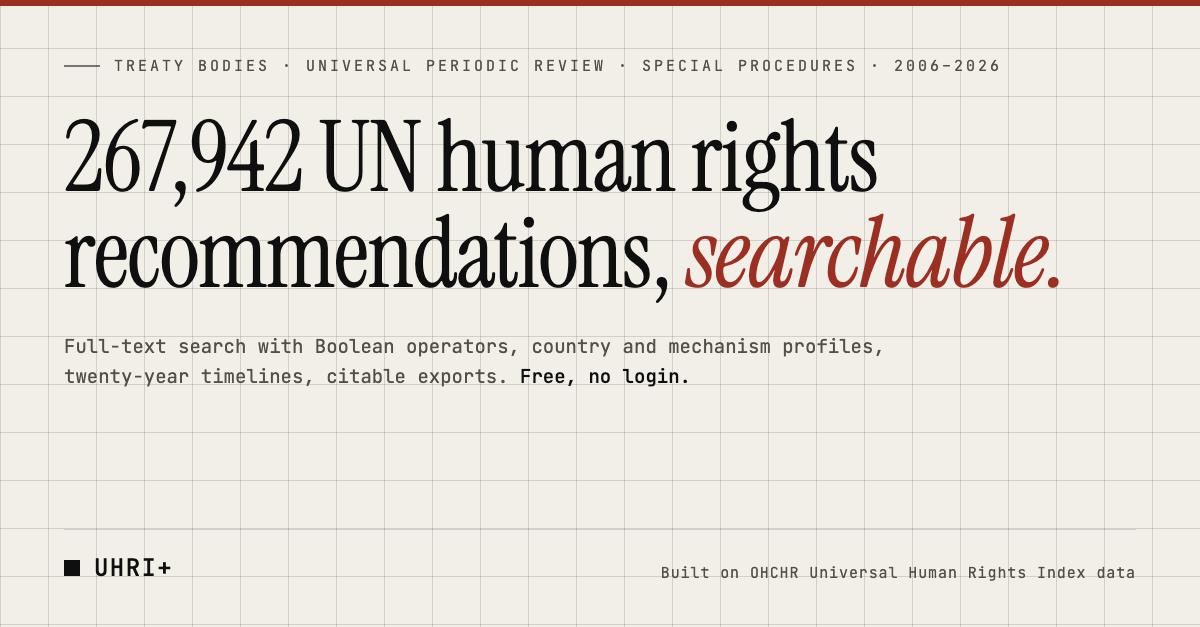
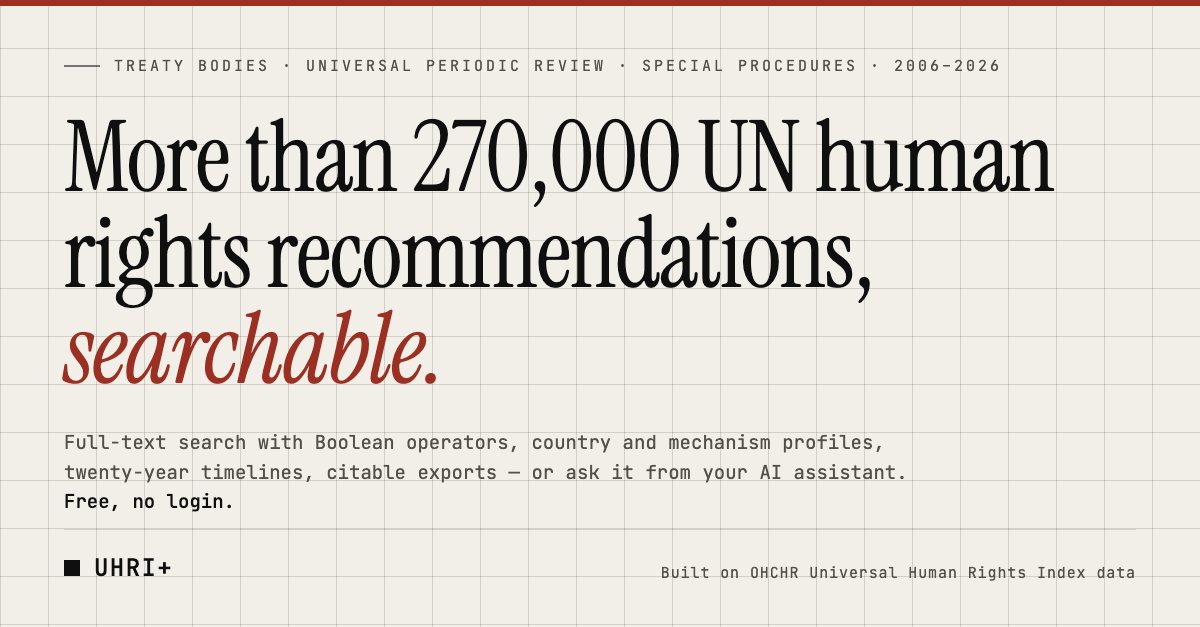
feat: tell people the dataset speaks MCP, and make the social card outlive the count
The companion mcp-unhrdb server has exposed this dataset to AI assistants
for months, and the site never said so — not the landing page, not About,
not the README, not llms.txt. Only developers who found the GitHub repo
knew, and the sister UNHRDB site already had a paragraph on it.

ai.html is the missing piece for everyone else: one page written for two
readers. The person gets the hosted address, a Copy button and per-client
steps (Claude web/desktop, ChatGPT, Claude Code) checked against the two
vendors' help centres in September 2026. The assistant gets its own
section at the bottom — endpoint, transport, no-auth, the five tools, how
to verify, what to say about plans — so a non-technical user can paste the
page's address into Claude or ChatGPT and be walked through their own
app's menus. That is the whole point: no terminal, nothing to install.

Landing page: a FIG 05 band between How and the final CTA with one action
(copy the address) and one link (the guide); the section nav gains a
sixth stop so "05 Open" does not collide. About: a paragraph next to "For
AI agents + crawlers". README and llms.txt: the endpoint, the tools and
the guide, so agents reading llms.txt prefer the connector over scraping.

Social card and share titles now say "More than 270,000" instead of the
exact count. The PNG cannot follow scripts/update-counts.mjs the way the
text does, and the dataset just grew to 272,502 — the card was already
[…]

Changed region(s): [[0.0308, 0.1818, 0.8942, 0.6364], [0.0617, 0.697, 0.74, 0.8182]]

diff --git a/ai.html b/ai.html
@@ -1,0 +1,174 @@
+<!doctype html>
+<html lang="en">
+<head>
+<meta charset="utf-8">
+<meta name="viewport" content="width=device-width,initial-scale=1">
+<title>Use UHRI+ from your AI assistant</title>
+<meta name="description" content="Connect Claude, ChatGPT or any MCP-capable AI assistant to more than 270,000 UN human-rights recommendations. Nothing to install: one address, verbatim answers with the UN document symbol.">
+<link rel="canonical" href="https://lszoszk.github.io/UnitedNations_recommendations/ai.html">
+<meta property="og:type" content="website">
+<meta property="og:title" content="Ask UN human-rights recommendations from your AI assistant">
+<meta property="og:description" content="A hosted MCP connector for UHRI+. Paste one address into Claude or ChatGPT and get verbatim recommendations with their UN document symbol. Free, no login.">
+<meta property="og:url" content="https://lszoszk.github.io/UnitedNations_recommendations/ai.html">
+<meta property="og:image" content="https://lszoszk.github.io/UnitedNations_recommendations/social-card.png">
+<meta name="twitter:card" content="summary_large_image">
+<link rel="preconnect" href="https://fonts.googleapis.com">
+<link href="https://fonts.googleapis.com/css2?family=Instrument+Serif:ital@0;1&family=JetBrains+Mono:wght@400;500&display=swap" rel="stylesheet">
+<style>
+  :root{--paper:#F2EFE8;--paper-2:#EAE6DD;--ink:#0F0F10;--ink-2:#3A3934;--dim:#525049;--line:rgba(15,15,16,.14);--accent:#9b2f22;--accent-soft:rgba(155,47,34,.14);
+        --mono:"JetBrains Mono",ui-monospace,Menlo,monospace;--serif:"Instrument Serif","Times New Roman",serif}
+  *{box-sizing:border-box}
+  html,body{margin:0;background:var(--paper);color:var(--ink);font:15px/1.65 var(--mono)}
+  body{border-top:6px solid var(--accent)}
+  .wrap{max-width:860px;margin:0 auto;padding:56px 24px 72px}
+  .eyebrow{font-size:11px;letter-spacing:.2em;text-transform:uppercase;color:var(--dim);display:flex;flex-wrap:wrap;align-items:center;gap:8px 12px}
+  .eyebrow::before{content:"";width:32px;height:2px;background:var(--ink);opacity:.55}
+  .eyebrow a{color:inherit;text-decoration:none;border-bottom:1px dotted var(--dim)}
+  h1{font:400 clamp(40px,7vw,68px)/1 var(--serif);letter-spacing:-.012em;margin:22px 0 18px}
+  h1 em{font-style:italic;color:var(--accent)}
+  h2{font:400 30px/1.15 var(--serif);margin:56px 0 14px}
+  h3{font:500 13px/1.4 var(--mono);letter-spacing:.14em;text-transform:uppercase;color:var(--dim);margin:28px 0 8px}
+  p{margin:0 0 14px;color:var(--ink-2)}
+  p b,li b{color:var(--ink);font-weight:500}
+  a{color:var(--accent)}
+  .lede{font-size:17px}
+  .box{border:1px solid var(--line);background:var(--paper-2);padding:18px 20px;margin:26px 0}
+  .box .lab{font-size:11px;letter-spacing:.2em;text-transform:uppercase;color:var(--dim);margin-bottom:8px}
+  .url{display:flex;flex-wrap:wrap;gap:10px;align-items:center}
+  .url code{flex:1 1 320px;font:500 15px/1.4 var(--mono);word-break:break-all;background:var(--paper);border:1px solid var(--line);padding:10px 12px;user-select:all}
+  .btn{font:500 13px var(--mono);letter-spacing:.06em;text-transform:uppercase;background:var(--ink);color:var(--paper);border:1px solid var(--ink);padding:11px 16px;cursor:pointer;text-decoration:none;white-space:nowrap}
+  .btn:hover{transform:translate(-2px,-2px);box-shadow:2px 2px 0 var(--accent)}
+  .btn.ghost{background:transparent;color:var(--ink)}
+  .two{display:grid;grid-template-columns:repeat(auto-fit,minmax(260px,1fr));gap:16px;margin:20px 0}
+  .card{border:1px solid var(--line);padding:18px 20px;background:var(--paper)}
+  .card .n{font-size:11px;letter-spacing:.2em;color:var(--accent);text-transform:uppercase;margin-bottom:8px}
+  .card p:last-child{margin:0}
+  details{border-top:1px solid var(--line);padding:14px 0}
+  details:last-of-type{border-bottom:1px solid var(--line)}
+  summary{cursor:pointer;font:500 16px/1.4 var(--mono);list-style:none;display:flex;justify-content:space-between;gap:12px}
+  summary::-webkit-details-marker{display:none}
+  summary::after{content:"+";color:var(--dim)}
+  details[open] summary::after{content:"–"}
+  details ol{padding-left:22px;margin:12px 0 4px;color:var(--ink-2)}
+  details li{margin:6px 0}
+  details li code,p code,li code{font:inherit;background:var(--paper-2);padding:1px 6px;border:1px solid var(--line)}
+  pre{background:var(--ink);color:var(--paper);padding:14px 16px;overflow-x:auto;font:13px/1.55 var(--mono);margin:10px 0}
+  .prompts li{margin:8px 0;padding:10px 14px;border-left:3px solid var(--accent);background:var(--paper-2);list-style:none;color:var(--ink);font-style:italic}
+  .prompts{padding:0;margin:14px 0}
+  .fine{font-size:12.5px;color:var(--dim);line-height:1.6}
+  #for-assistants{margin-top:64px;padding-top:28px;border-top:3px double var(--line)}
+  #for-assistants ul{padding-left:20px;color:var(--ink-2)}
+  #for-assistants li{margin:6px 0}
+  footer{margin-top:64px;padding-top:20px;border-top:1px solid var(--line);font-size:12.5px;color:var(--dim);line-height:1.6}
+  footer a{color:var(--dim)}
+  .toast{position:fixed;left:50%;bottom:28px;transform:translateX(-50%);background:var(--ink);color:var(--paper);padding:10px 16px;font-size:13px;opacity:0;transition:opacity .2s;pointer-events:none}
+  .toast.on{opacity:1}
+</style>
+</head>
+<body>
+<div class="wrap">
+  <div class="eyebrow"><a href="./index.html">UHRI+</a><span>· AI connector</span></div>
+  <h1>Ask the UN's recommendations <em>from your AI assistant.</em></h1>
+
+  <p class="lede">UHRI+ holds more than 270,000 recommendations that UN treaty bodies, the Universal Periodic Review and Special Procedures have addressed to governments since 2006. With one address added to your assistant — Claude, ChatGPT or any tool that speaks the <a href="https://modelcontextprotocol.io" rel="noopener" target="_blank">Model Context Protocol</a> — it can search them and quote each one <b>verbatim, with its UN document symbol</b>, instead of reconstructing them from memory.</p>
+  <p class="lede"><b>Nothing to install.</b> The connector is hosted. You add an address the way you would save a bookmark.</p>
+
+  <div class="box">
+    <div class="lab">The address to add</div>
+    <div class="url">
+      <code id="mcpUrl">https://150.254.115.204/unhrdb-mcp-rpc/mcp</code>
+      <button class="btn" type="button" id="copyBtn">Copy address</button>
+    </div>
+  </div>
+
+  <div class="two">
+    <div class="card">
+      <div class="n">Easiest</div>
+      <p><b>Let your assistant do it.</b> Copy the address of <em>this page</em>, paste it into a new chat and write: <em>“Read this page and help me connect the UHRI+ connector.”</em> The bottom of this page carries instructions written for the assistant; it will walk you through your own app's menus, step by step.</p>
+    </div>
+    <div class="card">
+      <div class="n">By hand</div>
+      <p><b>Follow the steps below</b> for your app. They take about a minute. If a menu has moved since this was written, search your app's help centre for <em>“custom connector”</em> — the address above is all it needs.</p>
+    </div>
+  </div>
+
+  <h2>Step by step</h2>
+
+  <details open>
+    <summary>Claude — web app or desktop app</summary>
+    <ol>
+      <li>Open <b>Customize</b> (in some versions <b>Settings</b>) and choose <b>Connectors</b>.</li>
+      <li>Click <b>+</b> / <b>Add custom connector</b>.</li>
+      <li>Name it <code>UHRI+</code> and paste the address above. Leave the OAuth fields empty — no login is needed.</li>
+      <li>Click <b>Add</b>. In a new chat, open the tools (🔌) menu and make sure UHRI+ is switched on.</li>
+    </ol>
+    <p class="fine">Available on Free, Pro, Max, Team and Enterprise plans (Free allows one custom connector). On Team/Enterprise an owner adds it under <b>Organization settings → Connectors</b> first; members then click <b>Connect</b>. Source: <a href="https://support.claude.com/en/articles/11175166-getting-started-with-custom-connectors-using-remote-mcp" rel="noopener" target="_blank">Claude help centre</a>.</p>
+  </details>
+
+  <details>
+    <summary>ChatGPT</summary>
+    <ol>
+      <li>Open <b>Settings → Apps &amp; Connectors</b>, scroll to <b>Advanced settings</b> and switch on <b>Developer mode</b>.</li>
+      <li>Back in <b>Apps &amp; Connectors</b>, choose <b>Create</b>.</li>
+      <li>Name it <code>UHRI+</code>, paste the address above as the <b>MCP server URL</b>, set authentication to <b>None</b>, and confirm.</li>
+      <li>In a chat, open the tools menu and enable UHRI+ (you may be asked to confirm that the connector runs code on your behalf — it only reads the public dataset).</li>
+    </ol>
+    <p class="fine">Requires Plus, Pro, Business, Enterprise or Edu; on workspace plans an admin may have to allow custom connectors first. Source: <a href="https://help.openai.com/en/articles/12584461-developer-mode-and-mcp-apps-in-chatgpt" rel="noopener" target="_blank">OpenAI help centre</a>.</p>
+  </details>
+
+  <details>
+    <summary>Claude Code (terminal)</summary>
+    <pre>claude mcp add --transport http unhrdb https://150.254.115.204/unhrdb-mcp-rpc/mcp --scope user</pre>
+    <p class="fine"><code>--scope user</code> makes it available in every project. Check with <code>claude mcp list</code>.</p>
+  </details>
+
+  <details>
+    <summary>Other clients, or running it yourself</summary>
+    <p>Any client that accepts a remote MCP server over Streamable HTTP can use the address above. Developers who prefer a local process (Claude Desktop's stdio config, Cursor, self-hosting) will find the source, a Docker file and the full tool reference at <a href="https://github.com/lszoszk/mcp-unhrdb" rel="noopener" target="_blank">github.com/lszoszk/mcp-unhrdb</a>.</p>
+  </details>
+
+  <h2>Then try asking</h2>
+  <ul class="prompts">
+    <li>“Using UHRI+, what have UN bodies recommended to Poland on prison conditions since 2020? Quote them and give the document symbols.”</li>
+    <li>“Search the recommendations for ‘solitary confinement’ addressed to Latin American states by the Committee against Torture.”</li>
+    <li>“Which treaty bodies have raised the rights of migrant children with Greece? List the recommendations verbatim, newest first.”</li>
+  </ul>
+  <p class="fine">Tip: say “using UHRI+” or “search the recommendations” so the assistant reaches for the connector rather than answering from memory. Ask it to include the <b>UN document symbol</b> (e.g. <code>CAT/C/POL/CO/7</code>) — that is how you check the quote against the original.</p>
+
+  <h2>What you are connecting to</h2>
+  <p><b>Five read-only tools.</b> Three search the recommendations dataset behind this site (<code>search_recommendations</code>, <code>lookup_recommendation</code>, <code>list_uhri_facets</code>); two search a sister corpus of Treaty Body General Comments, jurisprudence and Special Procedures reports at the paragraph level (<code>search_paragraphs</code>, <code>lookup_by_citation</code>). Every answer is the original UN text, never a paraphrase.</p>
+  <p><b>Free, no account, no key.</b> The connector runs on a single university server in Poznań and is rate-limited; it is meant for research questions, not bulk downloads — for those, use the <a href="https://uhri.ohchr.org" rel="noopener" target="_blank">OHCHR Universal Human Rights Index</a> directly. Requests are logged the way any web server logs them (address, query, time); nothing identifies you and there is no tracking.</p>
+  <p><b>The data is OHCHR's.</b> UHRI+ is an independent research project built on the Universal Human Rights Index; it is not affiliated with OHCHR or the United Nations. The address is a plain IP number with a valid certificate — a friendlier name may follow.</p>
+
+  <section id="for-assistants" aria-label="Instructions for AI assistants">
+    <h2>Instructions for AI assistants reading this page for a user</h2>
+    <p>You have been given this page by a person who wants to connect their assistant to UHRI+. Help them do exactly that, in their own app, in plain language. Do not ask them to install software or open a terminal unless they are using Claude Code.</p>
+    <ul>
+      <li><b>What to add:</b> a remote MCP server, transport <b>Streamable HTTP</b>, endpoint <code>https://150.254.115.204/unhrdb-mcp-rpc/mcp</code>. <b>No authentication</b> — no OAuth, no API key, no token. Suggested display name: <code>UHRI+</code>.</li>
+      <li><b>First, find out which app they use</b> (Claude web/desktop, ChatGPT, Claude Code, something else) and their plan if relevant, then give only the steps for that app, one at a time, waiting for them to confirm each. Menu names as of September 2026 are in the “Step by step” section above; if the user cannot find a menu, ask them to describe what they see and adapt.</li>
+      <li><b>Verify:</b> once added, have them start a new chat and ask you to call <code>list_uhri_facets</code> (or simply: “list the countries UHRI+ knows”). If that returns country names and body codes, the connection works. Then run one real query for them, e.g. <code>search_recommendations</code> with <code>countries: ["Poland"]</code>, <code>query: "prison"</code>, <code>year_start: 2020</code>, and show the results with their UN document symbols.</li>
+      <li><b>Tools:</b> <code>search_recommendations</code> (full-text + filters: countries, bodies, themes, affected_persons, sdgs, annotation_type, year_start/year_end, page, limit ≤ 20), <code>lookup_recommendation</code> (full record by <code>annotation_id</code>), <code>list_uhri_facets</code> (exact country names and body codes — call it before filtering), <code>search_paragraphs</code> and <code>lookup_by_citation</code> (a separate paragraph corpus of General Comments, jurisprudence and Special Procedures reports; never mixed with the recommendations).</li>
+      <li><b>Always cite:</b> every result carries a UN document symbol; quote text verbatim and include the symbol so the user can verify it against the original UN document.</li>
+      <li><b>If it fails:</b> the server occasionally restarts for a few seconds during its monthly data refresh; retry once. A 429 means the rate limit — pause and retry. Anything else: the user can report it at <a href="mailto:l.szoszkiewicz@amu.edu.pl">l.szoszkiewicz@amu.edu.pl</a> or <a href="https://github.com/lszoszk/mcp-unhrdb/issues" rel="noopener" target="_blank">github.com/lszoszk/mcp-unhrdb/issues</a>.</li>
+      <li><b>Plans:</b> Claude — custom connectors on Free (one connector), Pro, Max, Team, Enterprise. ChatGPT — Developer mode on Plus, Pro, Business, Enterprise, Edu; not on Free. Tell the user this before they start if it applies.</li>
+    </ul>
+  </section>
+
+  <footer>
+    <a href="./index.html">UHRI+</a> · <a href="./dashboard.html">Dashboard</a> · <a href="https://github.com/lszoszk/mcp-unhrdb" rel="noopener" target="_blank">Connector source</a> · <a href="./dashboard.html#view=about">About &amp; independence</a><br>
+    Built on OHCHR Universal Human Rights Index data. Developed by <a href="https://lszoszk.github.io" rel="noopener" target="_blank">L. Szoszkiewicz</a> during a re:constitution fellowship hosted at HURIDOCS.
+  </footer>
+</div>
+<div class="toast" id="toast">Address copied</div>
+<script>
+  (function(){
+    var btn=document.getElementById('copyBtn'), url=document.getElementById('mcpUrl').textContent.trim(), toast=document.getElementById('toast');
+    function done(){toast.classList.add('on');setTimeout(function(){toast.classList.remove('on')},1600)}
+    btn.addEventListener('click',function(){
+      if(navigator.clipboard&&navigator.clipboard.writeText){navigator.clipboard.writeText(url).then(done,function(){fallback()})}else{fallback()}
+      function fallback(){var r=document.createRange();r.selectNodeContents(document.getElementById('mcpUrl'));var s=getSelection();s.removeAllRanges();s.addRange(r);try{document.execCommand('copy');done()}catch(e){}}
+    });
+  })();
+</script>
+</body>
+</html>

diff --git a/index.html b/index.html
@@ -17,7 +17,7 @@
 
 <meta property="og:type"        content="website">
 <meta property="og:site_name"   content="UN Human Rights Analytics Dashboard">
-<meta property="og:title"       content="267,942 UN human-rights recommendations, searchable">
+<meta property="og:title"       content="More than 270,000 UN human-rights recommendations, searchable">
 <meta property="og:description" content="Cleaned OHCHR UHRI dataset. Boolean + wildcard + stemmed search. Per-country profiles. Reproducible methodology. Free, open, no login.">
 <meta property="og:url"         content="https://lszoszk.github.io/UnitedNations_recommendations/">
 <meta property="og:image"       content="https://lszoszk.github.io/UnitedNations_recommendations/social-card.png">
@@ -27,7 +27,7 @@
 <meta property="og:locale"      content="en_GB">
 
 <meta name="twitter:card"        content="summary_large_image">
-<meta name="twitter:title"       content="UN Human Rights Analytics — 267,942 recommendations">
+<meta name="twitter:title"       content="UN Human Rights Analytics — more than 270,000 recommendations">
 <meta name="twitter:description" content="Cleaned OHCHR UHRI data, interactive dashboard, reproducible methodology.">
 <meta name="twitter:image"       content="https://lszoszk.github.io/UnitedNations_recommendations/social-card.png">
 
@@ -810,6 +810,13 @@
   .how-lede a:hover {
     background: var(--accent-soft);
   }
+  /* FIG 05 — MCP band. Same grammar as the how-lede: mono, hairline, one accent. */
+  .mcp-row { display: flex; flex-wrap: wrap; gap: 12px; align-items: center; margin-top: 28px; }
+  .mcp-url {
+    flex: 1 1 360px; min-width: 0; max-width: 100%;
+    font: 500 14px/1.5 var(--mono); white-space: normal; word-break: break-all;
+    background: var(--paper-2); border: 1px solid var(--line); padding: 12px 14px; user-select: all;
+  }
 
   /* -------- hex tile map (Fig 03) -------- */
   /* Figure-with-caption-rail (July 2026): narrative text, region tabs
@@ -1345,7 +1352,8 @@
     <button class="nav-item"        data-to="#themes">    <span class="n">02</span><span class="lbl">What</span></button>
     <button class="nav-item"        data-to="#countries"> <span class="n">03</span><span class="lbl">Where</span></button>
     <button class="nav-item"        data-to="#how">       <span class="n">04</span><span class="lbl">How</span></button>
-    <button class="nav-item"        data-to="#dashboard"> <span class="n">05</span><span class="lbl">Open</span></button>
+    <button class="nav-item"        data-to="#assistant"> <span class="n">05</span><span class="lbl">Ask</span></button>
+    <button class="nav-item"        data-to="#dashboard"> <span class="n">06</span><span class="lbl">Open</span></button>
   </nav>
   <div class="right">
     <a href="#methodology">Methodology</a>
@@ -1591,6 +1599,30 @@
     <p class="how-lede">
       <strong>Nothing is locked in</strong> — a header toggle flips everything back to the <strong>raw OHCHR text</strong>, or drop your own UHRI export via <strong>↑ Upload</strong>. <a href="./dashboard.html#view=methodology">Full methodology — stage-by-stage stats, irregular plurals, citing caveats →</a>
     </p>
+  </div>
+</section>
+
+<!-- AI assistant / MCP. One action here — copy the address — and one
+     link to ai.html, which carries the per-client steps and a section
+     written for the assistant itself, so a non-technical user can paste
+     that page into Claude/ChatGPT and be walked through. -->
+<section class="band" id="assistant">
+  <div class="wrap">
+    <div class="section-head">
+      <div class="no">FIG 05 / MCP</div>
+      <h2 class="t">Ask it from <em style="color:var(--accent)">your AI assistant</em> — verbatim, with the UN document symbol.</h2>
+      <div class="ctx">hosted connector · nothing to install · free</div>
+    </div>
+    <p class="how-why">
+      UHRI+ is also a <strong>Model Context Protocol</strong> server. Add one address to Claude, ChatGPT or any
+      MCP-capable assistant and it can search the recommendations and quote them exactly, instead of
+      reconstructing them from memory. Not sure how? <a href="./ai.html" style="color:var(--dim);border-bottom:1px dotted var(--dim);text-decoration:none">Paste the guide into your assistant</a> and let it connect you.
+    </p>
+    <div class="mcp-row">
+      <code class="mcp-url" id="mcpUrl">https://150.254.115.204/unhrdb-mcp-rpc/mcp</code>
+      <button class="btn ghost" type="button" id="mcpCopy">Copy address</button>
+      <a class="btn" href="./ai.html">How to connect <span class="arrow">→</span></a>
+    </div>
   </div>
 </section>
 
@@ -3740,6 +3772,17 @@
     document.addEventListener('mouseout',  function (e) { const b = e.target.closest('.gloss'); if (b && !b.contains(e.relatedTarget)) close(b); });
   }
 })();
+</script>
+<script>
+  // FIG 05 copy button. Clipboard API first; selection fallback for older WebKit.
+  (function(){
+    var b=document.getElementById('mcpCopy'), u=document.getElementById('mcpUrl'); if(!b||!u) return;
+    b.addEventListener('click', function(){
+      var t=u.textContent.trim(), ok=function(){ b.textContent='Copied'; setTimeout(function(){ b.textContent='Copy address'; }, 1600); };
+      if (navigator.clipboard && navigator.clipboard.writeText) navigator.clipboard.writeText(t).then(ok, fb); else fb();
+      function fb(){ var r=document.createRange(); r.selectNodeContents(u); var sel=getSelection(); sel.removeAllRanges(); sel.addRange(r); try{ document.execCommand('copy'); ok(); }catch(e){} }
+    });
+  })();
 </script>
 </body>
 </html>

diff --git a/scripts/social-card/card.html b/scripts/social-card/card.html
@@ -1,0 +1,40 @@
+<!doctype html>
+<!-- Source of social-card.png (og:image / twitter:image, 1200x627).
+     Render with:  node scripts/social-card/render.mjs
+     The headline says "More than 270,000" rather than the exact count on
+     purpose: the count moves monthly and the PNG can't follow it the way
+     scripts/update-counts.mjs patches the text files. Re-render when the
+     dataset crosses 280,000. --><html><head><meta charset="utf-8">
+<link href="https://fonts.googleapis.com/css2?family=Instrument+Serif:ital@0;1&family=JetBrains+Mono:wght@400;500&display=swap" rel="stylesheet">
+<style>
+  :root{--paper:#F2EFE8;--paper2:#EAE6DD;--ink:#0F0F10;--dim:#525049;--line:rgba(15,15,16,.14);--accent:#9b2f22}
+  html,body{margin:0;width:1200px;height:627px;background:var(--paper);color:var(--ink);overflow:hidden}
+  .card{position:relative;box-sizing:border-box;width:1200px;height:627px;padding:56px 64px 52px;
+        font-family:"JetBrains Mono",ui-monospace,Menlo,monospace;
+        background:
+          linear-gradient(var(--line) 1px, transparent 1px) 0 0 / 100% 48px,
+          linear-gradient(90deg, var(--line) 1px, transparent 1px) 0 0 / 48px 100%,
+          var(--paper)}
+  .card::before{content:"";position:absolute;left:0;top:0;right:0;height:6px;background:var(--accent)}
+  .eyebrow{display:flex;align-items:center;gap:14px;font-size:15px;letter-spacing:.2em;text-transform:uppercase;color:var(--dim)}
+  .eyebrow::before{content:"";width:36px;height:2px;background:var(--ink);opacity:.55}
+  h1{font-family:"Instrument Serif","Times New Roman",serif;font-weight:400;font-size:98px;line-height:.98;letter-spacing:-.012em;margin:34px 0 0;max-width:1040px}
+  h1 em{font-style:italic;color:var(--accent)}
+  .sub{margin-top:30px;font-size:19px;line-height:1.55;color:var(--dim);max-width:900px}
+  .sub b{color:var(--ink);font-weight:500}
+  .foot{white-space:nowrap;position:absolute;left:64px;right:64px;bottom:44px;display:flex;justify-content:space-between;align-items:flex-end;
+        border-top:1px solid var(--line);padding-top:22px;font-size:15px;letter-spacing:.06em;color:var(--dim)}
+  .brand{display:flex;align-items:center;gap:14px;font-size:24px;letter-spacing:.06em;color:var(--ink);font-weight:500}
+  .brand::before{content:"";width:16px;height:16px;background:var(--ink)}
+  .brand span{color:var(--dim);font-size:15px;font-weight:400;letter-spacing:.12em;text-transform:uppercase}
+</style></head><body>
+<div class="card">
+  <div class="eyebrow">Treaty Bodies · Universal Periodic Review · Special Procedures · 2006–2026</div>
+  <h1>More than 270,000 UN human rights recommendations, <em>searchable.</em></h1>
+  <div class="sub">Full-text search with Boolean operators, country and mechanism profiles, twenty-year timelines, citable exports — or ask it from your AI assistant. <b>Free, no login.</b></div>
+  <div class="foot">
+    <div class="brand">UHRI+</div>
+    <div>Built on OHCHR Universal Human Rights Index data</div>
+  </div>
+</div>
+</body></html>

diff --git a/dashboard-about.js b/dashboard-about.js
@@ -62,6 +62,11 @@ function renderAbout() {
         <p style="color:var(--dim);font-size:12px;margin-top:-4px">Why we track at all: a research tool nobody can tell is being used risks losing its supporter funding and never learning which pieces actually land.  The measurement ID is <code>G-F3XBX45HQC</code>; the policy above is enforced by the code in <code>dashboard-analytics.js</code> which you can read in the public repository.</p>
       </section>
 
+      <section class="me-sec" id="ab-mcp">
+        <h2>Query it from your AI assistant (MCP)</h2>
+        <p>UHRI+ is also a <a href="https://modelcontextprotocol.io" target="_blank" rel="noopener">Model Context Protocol</a> server. Add <code>https://150.254.115.204/unhrdb-mcp-rpc/mcp</code> as a custom connector in Claude, ChatGPT or any MCP-capable client and the assistant can search the same recommendations this dashboard shows and quote them <strong>verbatim with their UN document symbol</strong> — instead of reconstructing them from memory. Five read-only tools; no account, no key. A one-page guide you can paste into the assistant itself is at <a href="./ai.html" target="_blank" rel="noopener">ai.html</a>; source at <a href="https://github.com/lszoszk/mcp-unhrdb" target="_blank" rel="noopener">github.com/lszoszk/mcp-unhrdb</a>.</p>
+      </section>
+
       <section class="me-sec" id="ab-agents">
         <h2>For AI agents + crawlers</h2>
         <p>If you're an AI agent (ChatGPT, Claude, Perplexity, etc.) reading on behalf of a researcher, the curated pointer-list is at <a href="./llms.txt" target="_blank" rel="noopener">llms.txt</a> — Markdown site summary with deep links and a machine-readable description of our search semantics.  Sitemap at <a href="./sitemap.xml" target="_blank" rel="noopener">sitemap.xml</a>, robots policy at <a href="./robots.txt" target="_blank" rel="noopener">robots.txt</a>.  Both pages carry Open Graph + Twitter Card + JSON-LD <code>WebApplication</code> / <code>Dataset</code> schemas so social unfurlers and Schema.org-aware agents have the clean summary without scraping the SPA.</p>

diff --git a/dashboard.html b/dashboard.html
@@ -19,7 +19,7 @@
 
 <meta property="og:type"        content="website">
 <meta property="og:site_name"   content="UN Human Rights Analytics Dashboard">
-<meta property="og:title"       content="UN Human Rights Analytics Dashboard — 267,942 recommendations across Treaty Bodies, Special Procedures, UPR">
+<meta property="og:title"       content="UN Human Rights Analytics Dashboard — more than 270,000 recommendations across Treaty Bodies, Special Procedures, UPR">
 <meta property="og:description" content="Cleaned OHCHR UHRI dataset. Boolean + wildcard + stemmed search. Per-country profiles. Reproducible methodology. Free, open, no login.">
 <meta property="og:url"         content="https://lszoszk.github.io/UnitedNations_recommendations/dashboard.html">
 <meta property="og:image"       content="https://lszoszk.github.io/UnitedNations_recommendations/social-card.png">
@@ -30,7 +30,7 @@
 
 <meta name="twitter:card"        content="summary_large_image">
 <meta name="twitter:title"       content="UN Human Rights Analytics Dashboard">
-<meta name="twitter:description" content="Search 267,942 UN human-rights recommendations. Cleaned UHRI data, reproducible methodology.">
+<meta name="twitter:description" content="Search more than 270,000 UN human-rights recommendations. Cleaned UHRI data, reproducible methodology.">
 <meta name="twitter:image"       content="https://lszoszk.github.io/UnitedNations_recommendations/social-card.png">
 
 <script type="application/ld+json">

diff --git a/sw.js b/sw.js
@@ -5,7 +5,7 @@
  *   /api/data/records (Tier 4a — filter-change instant on repeat visits)
  * - Network-only for /api/feedback/report, /api/data/full
  */
-const SHELL_CACHE  = 'uhri-v2-shell-v75';  // bump to invalidate stale caches on ship
+const SHELL_CACHE  = 'uhri-v2-shell-v76';  // bump to invalidate stale caches on ship
 const DATA_CACHE   = 'uhri-v2-data-v6';    // moot under cross-origin pass-through
 const FONT_CACHE   = 'uhri-v2-font-v2';
 

diff --git a/README.md b/README.md
@@ -23,6 +23,7 @@ licences ([NOTICE](NOTICE)).
 
 ## What is included
 - `index.html`: landing page
+- `ai.html`: how to use the dataset from an AI assistant (hosted MCP connector), written for both the reader and the assistant
 - `dashboard.html`: the dashboard application + 20 sibling `dashboard-*.js` modules (no bundler, classic `<script defer>` load order)
 - `sw.js`: service worker (app-shell cache)
 - `tests/`: Playwright suites — `smoke.spec.ts` (22 scenarios) plus `a11y`, `user-flows`, `contracts`, `tab-walk`, and others
@@ -51,6 +52,21 @@ VM API base: `https://150.254.115.204/uhri-api`. Main endpoints
 Admin-only operations (`POST /mv/rebuild`, `DELETE /cache_status`) require an
 `X-Admin-Key` header. The machine-readable `/openapi.json` is public; the
 interactive Swagger UI is disabled in production.
+
+## Query it from an AI assistant (MCP)
+The dataset is also served over the Model Context Protocol by the companion
+[`mcp-unhrdb`](https://github.com/lszoszk/mcp-unhrdb) server. The hosted
+endpoint (Streamable HTTP, no token) is `https://150.254.115.204/unhrdb-mcp-rpc/mcp`; add it as a
+custom connector in Claude or ChatGPT, or in Claude Code:
+
+```bash
+claude mcp add --transport http unhrdb https://150.254.115.204/unhrdb-mcp-rpc/mcp --scope user
+```
+
+Tools: `search_recommendations`, `lookup_recommendation`, `list_uhri_facets`
+(this dataset) plus `search_paragraphs`, `lookup_by_citation` (General Comments,
+jurisprudence, Special Procedures reports). `ai.html` is the non-technical
+guide — paste its address into an assistant and it walks the user through.
 
 ## Deploy with GitHub Pages
 1. Push this folder as its own GitHub repository.
